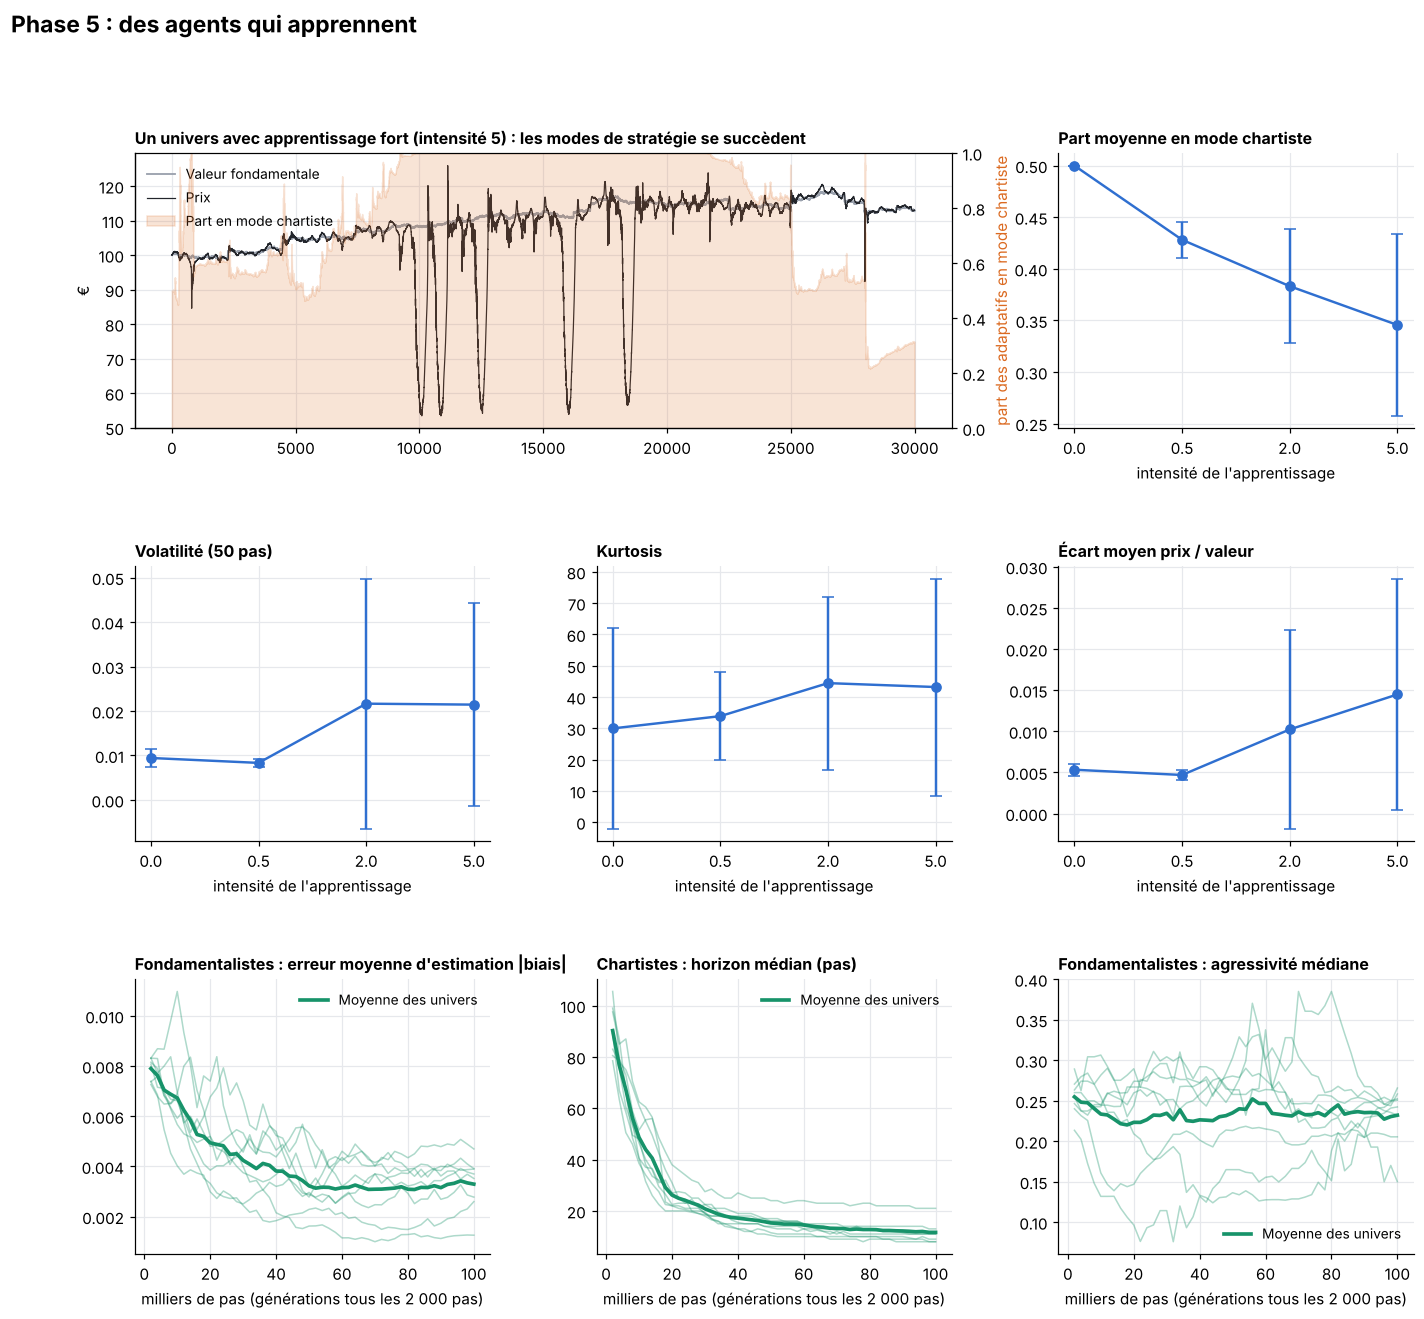
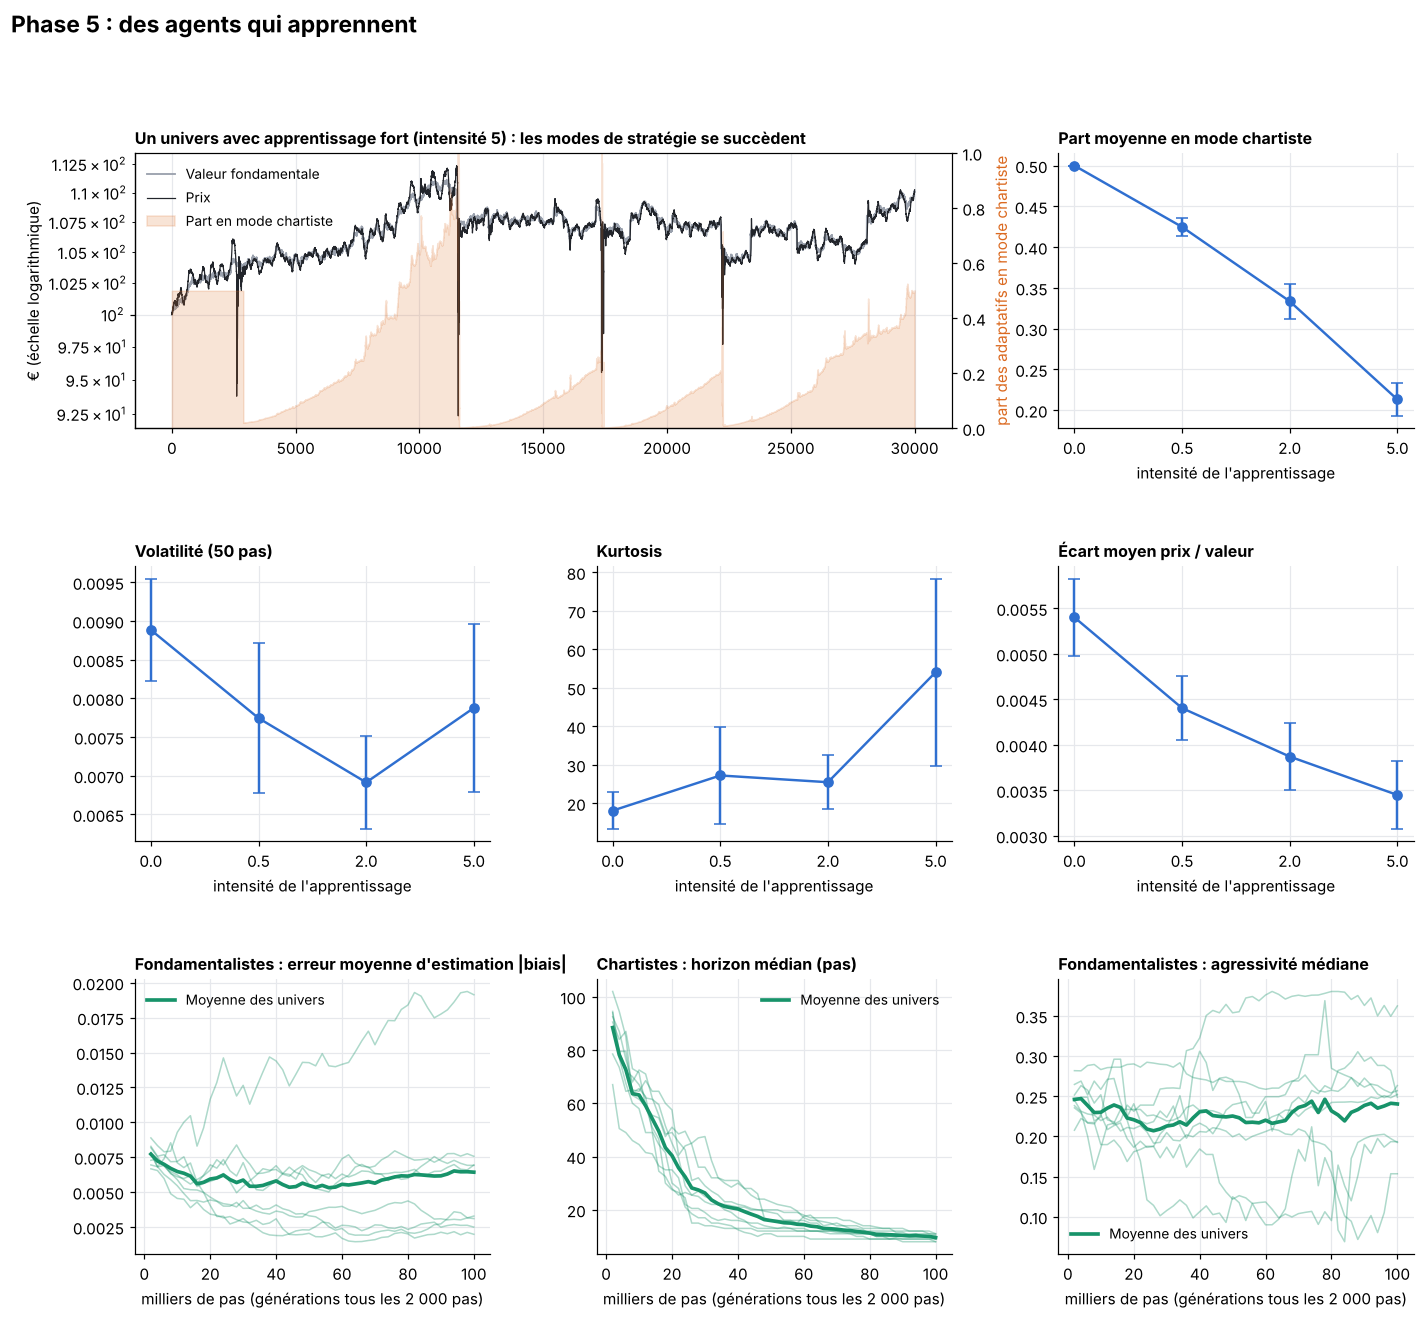
Phase 5 : agents qui apprennent, conclusions
Période d'observation avant apprentissage (supprime des bulles
artificielles au démarrage). Cycle de Minsky émergent : la part de
chartistes monte en période calme jusqu'au krach. L'évolution
raccourcit l'horizon des chartistes et rend le marché plus efficient.

Claude-Session: https://claude.ai/code/session_018u7No4f3AeSzErS5eYcLnu

diff --git a/apprendre.py b/apprendre.py
@@ -97,6 +97,8 @@ def _evolution(args):
 
 def ic(v):
     v = np.asarray([x for x in v if not math.isnan(x)])
+    if len(v) < 2:
+        return math.nan, math.nan, math.nan
     d = 1.96 * v.std(ddof=1) / math.sqrt(len(v))
     return v.mean(), v.mean() - d, v.mean() + d
 
@@ -137,7 +139,8 @@ def main() -> None:
     prix, fond, pc = next(r["serie"] for i, g, r in bh if i == 5.0)
     ax.plot(fond, color="#9aa1ad", lw=1.2, label="Valeur fondamentale")
     ax.plot(prix, color="#22252b", lw=0.8, label="Prix")
-    ax.set_ylabel("€")
+    ax.set_ylabel("€ (échelle logarithmique)")
+    ax.set_yscale("log")
     ax2 = ax.twinx()
     ax2.fill_between(np.arange(len(pc)), 0, pc, color="#db6a21", alpha=0.18, label="Part en mode chartiste")
     ax2.set_ylim(0, 1); ax2.set_ylabel("part des adaptatifs en mode chartiste", color="#db6a21")
@@ -187,7 +190,7 @@ def main() -> None:
          "|---|---|---|---|---|---|---|"]
     for I in INTENSITES:
         R = [r for i, g, r in bh if i == I]
-        f = lambda c, fmt: fmt.format(ic([r[c] for r in R])[0])
+        f = lambda c, fmt: "—" if math.isnan(ic([r[c] for r in R])[0]) else fmt.format(ic([r[c] for r in R])[0])
         L.append(f"| {I} | {f('part_chartiste', '{:.0%}')} | {f('volatilite', '{:.2%}')} | "
                  f"{f('kurtosis', '{:.1f}')} | {f('inefficience', '{:.2%}')} | {f('chute_max', '{:.1%}')} | "
                  f"{f('corr_part_vol', '{:+.2f}')} |")

diff --git a/marche/simulation.py b/marche/simulation.py
@@ -126,7 +126,8 @@ class Marche:
     def proba_fondamentaliste(self) -> float:
         """Probabilité logit (Brock et Hommes) de jouer la stratégie fondamentaliste."""
         ref = self._var[self._demi_vie_ref]
-        if not ref:
+        # Période d'observation : pas d'apprentissage tant que les scores n'ont pas d'historique.
+        if not ref or self.t < 1.0 / self._alpha_score:
             return 0.5
         # Écart de score en « t-statistique » : rapporté à la volatilité et à la longueur de la
         # mémoire. d = 2 signifie qu'une stratégie bat nettement l'autre ces derniers temps.

diff --git a/docs/conclusions-phase5.md b/docs/conclusions-phase5.md
@@ -1,0 +1,79 @@
+# Phase 5 : ce que disent les agents qui apprennent
+
+Chiffres bruts et graphiques : [`apprentissage.md`](apprentissage.md). Script : `python apprendre.py`.
+
+## Ce que les simulations longues ont révélé sur le modèle
+
+Faire tourner le marché sur 100 000 pas (contre 30 000 jusque-là) a mis au jour quatre
+défauts. Chacun faisait lentement dériver le prix, jusqu'à 30 % sous la valeur dans certains
+univers :
+
+1. **Prix gelé** quand un seul côté du carnet était rempli : le prix de référence restait au
+   dernier cours, même si des acheteurs proposaient plus haut.
+2. **Bruiteurs sans allocation de long terme** : servant de réservoir passif, leur stock
+   s'épuisait lentement. Ils rééquilibrent désormais vers leur allocation.
+3. **Faux appels de marge** : ils se déclenchaient même pour un fonds sans dette, ce qui en
+   faisait de simples stop-loss en cascade. Ils ne touchent plus que les positions financées
+   par emprunt.
+4. **Pas de faillite** : des fonds ruinés continuaient à trader à crédit. Un fonds qui perd
+   75 % de son capital ferme désormais, et un nouveau reprend son portefeuille.
+
+**Conséquence importante pour la phase 3** : l'effet de levier obtenu alors venait en partie
+du défaut n° 3. Avec des appels de marge corrects, il n'apparaît que si les chartistes sont
+réellement endettés, ce qui est le cas des hedge funds. C'est désormais le réglage par défaut,
+et l'effet de levier est reproduit dans 18 univers sur 20. Tous les rapports ont été
+régénérés sur le modèle corrigé.
+
+## Expérience A : agents adaptatifs (Brock et Hommes 1998)
+
+100 agents choisissent, avant chaque décision, entre la casquette fondamentaliste et la
+casquette chartiste, selon le score récent des deux stratégies. L'intensité règle la force de
+l'apprentissage : à 0, ils choisissent au hasard ; à 5, ils suivent presque toujours la
+stratégie gagnante.
+
+- **Les fondamentalistes gagnent en moyenne** : plus l'apprentissage est fort, plus la part
+  en mode chartiste baisse (50 % → 21 %), et plus le prix colle à la valeur (écart moyen
+  0,54 % → 0,34 %).
+- **Mais les queues s'épaississent** : la kurtosis triple (18 → 54). Le marché est plus calme
+  en temps normal, et ses crises sont plus violentes.
+- **Le mécanisme est un cycle**, visible dans le graphique de l'univers d'exemple :
+  1. en période calme, suivre la tendance rapporte, et la part de chartistes monte lentement ;
+  2. le marché, porté par des suiveurs de tendance, devient fragile ;
+  3. un krach éclate, à chaque fois au pic de la part de chartistes ;
+  4. les pertes discréditent le suivi de tendance, la part de chartistes s'effondre, et le cycle recommence.
+
+  La corrélation entre la part de chartistes et la volatilité qui suit croît avec l'intensité
+  de l'apprentissage (+0,14 → +0,37).
+- **Lecture** : c'est l'idée de Minsky, « la stabilité engendre l'instabilité », obtenue ici
+  sans l'avoir programmée.
+- **Correction en cours de route** : sans période d'observation, les agents apprenaient sur
+  quelques pas de bruit au démarrage et formaient des bulles géantes (prix multiplié par 60).
+  Ce n'était pas un résultat économique. L'apprentissage ne démarre désormais qu'une fois la
+  mémoire des scores remplie (2 000 pas).
+
+## Expérience B : évolution darwinienne des stratégies
+
+Tous les 2 000 pas, les 10 % de fondamentalistes et de chartistes les moins performants
+copient les paramètres d'un des 20 % les meilleurs, avec mutation. 8 univers de 100 000 pas.
+
+- **Les chartistes raccourcissent massivement leur horizon** : l'horizon médian passe de
+  88 pas à 10. Seul le momentum très court terme survit. Les tendances longues ne sont pas
+  exploitables dans ce marché, où les fondamentalistes ramènent le prix vers la valeur.
+- **Les fondamentalistes estiment un peu mieux la valeur** : l'erreur moyenne passe de
+  0,77 % à 0,64 %. C'est modeste, et un univers fait exception : la valeur y a monté
+  durablement, et ce sont les fondamentalistes optimistes qui ont été récompensés. La
+  sélection récompense ce qui a rapporté, pas ce qui est juste.
+- **L'agressivité des fondamentalistes ne converge pas** : elle reste autour de 0,24. Aucune
+  valeur ne domine, ce qui suggère plusieurs stratégies viables.
+- **Le marché devient plus efficient et plus calme** : l'écart prix/valeur passe de 1,11 % à
+  0,66 %, la volatilité de 1,16 % à 0,80 % et la pire chute de 29 % à 24 %. La kurtosis
+  monte toutefois légèrement (22 → 27) : comme dans l'expérience A, plus calme ne veut pas
+  dire plus sûr dans les extrêmes.
+
+## Limites
+
+- Les agents apprennent **quelle stratégie** suivre ou **quels paramètres** garder, mais pas
+  de nouvelles stratégies. Un apprentissage par renforcement libre serait l'étape suivante.
+- Le score d'une stratégie est celui d'un portefeuille virtuel, sans coûts de transaction.
+- Sans évolution, l'écart prix/valeur augmente encore légèrement avec le temps (0,6 % → 1,4 %
+  sur 100 000 pas) : il reste une dérive lente, modeste mais à surveiller.

diff --git a/docs/AVANCEMENT.md b/docs/AVANCEMENT.md
@@ -1,47 +1,31 @@
 # Où en est le projet
 
-*Dernière mise à jour : 17/11/2026, fin de session.*
+*Dernière mise à jour : 18/11/2026.*
 
 ## Fait
 
-- **Phase 1** : moteur Python. Carnet d'ordres, 4 types d'agents, faits stylisés, tableau de bord (`python lancer.py`).
+- **Phase 1** : moteur Python. Carnet d'ordres, agents, faits stylisés, tableau de bord (`python lancer.py`).
 - **Phase 2** : salle des marchés interactive dans le navigateur (`web/salle-des-marches.html`).
   Elle tourne encore avec le modèle de la phase 1 : elle sera mise à jour à la fin.
-- **Phase 3** : validation Monte-Carlo sur 20 univers (`python valider.py`, rapport dans
-  [`validation.md`](validation.md)). Trois mécanismes ont été ajoutés : horizons
-  hétérogènes, aversion aux pertes, appels de marge.
-- **Corrections apparues pendant la phase 4** :
-  - la limite des investisseurs value est désormais exprimée en euros et non plus en titres ;
-  - un acheteur stratégique (OPA) intervient sous 50 % de la valeur.
-
-  Sans ces deux corrections, le prix pouvait s'effondrer jusqu'à 0,01 € dans certains univers.
-
-## En cours : phase 4, expériences de régulation
-
-`python experimenter.py` lance 6 politiques × 20 univers appariés, plus un stress test de
-liquidation. Les résultats sont dans [`experiences.md`](experiences.md), et leur interprétation dans [`conclusions-phase4.md`](conclusions-phase4.md).
-
-**Premiers résultats, à analyser et à vérifier avant d'en tirer des conclusions :**
-- **Taxe 0,1 %** : la fourchette double et le volume baisse de 22 %, sans gain de stabilité significatif.
-- **Interdiction de la vente à découvert** : la chute pendant la liquidation est réduite de 65 %.
-  Hypothèse à vérifier : dans la référence, les chartistes vendent à découvert dans le
-  mouvement et amplifient la chute.
-- **Crédit restreint pour tous** : volatilité +55 %, pire chute +53 %. C'est la spirale de
-  liquidité : les investisseurs value n'ont plus les moyens d'absorber les ventes forcées.
-- **Levier des hedge funds limité** et **coupe-circuit 3 %** : aucun effet significatif sur 20 univers.
+- **Phase 3** : validation Monte-Carlo sur 20 univers (`python valider.py`, rapport
+  [`validation.md`](validation.md)). Mécanismes ajoutés : horizons hétérogènes, aversion aux
+  pertes, appels de marge.
+- **Phase 4** : expériences de régulation (`python experimenter.py`). Chiffres dans
+  [`experiences.md`](experiences.md), interprétation dans [`conclusions-phase4.md`](conclusions-phase4.md).
+- **Phase 5** : agents adaptatifs et évolution (`python apprendre.py`). Chiffres dans
+  [`apprentissage.md`](apprentissage.md), interprétation dans [`conclusions-phase5.md`](conclusions-phase5.md).
+  Les simulations longues ont révélé quatre défauts du modèle, tous corrigés (détails dans
+  les conclusions de la phase 5). Tous les rapports ont été régénérés sur le modèle corrigé.
 
 ## Reste à faire
 
-1. Phase 4 : vérifier les mécanismes derrière les résultats (surtout la vente à découvert),
-   puis rédiger l'interprétation.
-2. Phase 5 : agents adaptatifs (bascule fondamentaliste/chartiste selon la performance, à la
-   Brock et Hommes) et évolution darwinienne des paramètres.
-3. Phase 6 : plusieurs actifs, fonds endettés multi-actifs, contagion par les appels de marge.
-4. Mettre à jour la salle des marchés (JavaScript) avec le modèle final et vérifier
-   la parité avec le moteur Python.
+1. Phase 6 : plusieurs actifs, fonds endettés multi-actifs, contagion par les appels de marge.
+2. Mettre à jour la salle des marchés (JavaScript) avec le modèle final et vérifier la
+   parité avec le moteur Python.
 
 ## Points ouverts du modèle
 
-- Indice de queue de Hill ≈ 2,1, contre ≈ 3 dans la réalité : les queues sont encore un peu trop épaisses.
-- Mémoire de la volatilité β ≈ 0,6, contre 0,2 à 0,4 dans la réalité.
-- Rendements légèrement trop autocorrélés (|ACF| moyenne ≈ 0,13).
+- Indice de queue de Hill ≈ 1,9, contre ≈ 3 dans la réalité : les queues sont encore trop épaisses.
+- Mémoire de la volatilité β ≈ 0,8, contre 0,2 à 0,4 dans la réalité. Elle est bonne (≈ 0,4)
+  avec des chartistes non endettés, mais on perd alors l'effet de levier : il y a un arbitrage.
+- Légère dérive de l'écart prix/valeur sur très longue durée (≈ 0,6 % → 1,4 % sur 100 000 pas).

diff --git a/docs/apprentissage.md b/docs/apprentissage.md
@@ -8,10 +8,10 @@
 
 | Intensité | Part en mode chartiste | Volatilité | Kurtosis | Écart prix / valeur | Pire chute | corr(part chartiste, volatilité suivante) |
 |---|---|---|---|---|---|---|
-| 0.0 | 50% | 0.94% | 30.0 | 0.53% | 22.6% | +nan |
-| 0.5 | 43% | 0.83% | 33.9 | 0.47% | 17.0% | +0.05 |
-| 2.0 | 38% | 2.16% | 44.4 | 1.02% | 61.5% | +0.30 |
-| 5.0 | 35% | 2.14% | 43.2 | 1.45% | 63.0% | +0.42 |
+| 0.0 | 50% | 0.89% | 18.1 | 0.54% | 17.2% | — |
+| 0.5 | 42% | 0.77% | 27.2 | 0.44% | 18.1% | +0.14 |
+| 2.0 | 33% | 0.69% | 25.5 | 0.39% | 18.0% | +0.30 |
+| 5.0 | 21% | 0.79% | 54.1 | 0.34% | 19.5% | +0.37 |
 
 ## Expérience B : évolution des stratégies (8 univers de 100 000 pas, avec et sans évolution)
 
@@ -19,31 +19,31 @@ Tous les 2 000 pas, les 10 % de fondamentalistes et de chartistes les moins perf
 
 | Indicateur | Début | Fin |
 |---|---|---|
-| Fondamentalistes : erreur moyenne d'estimation |biais| | 0.79% | 0.33% |
-| Fondamentalistes : agressivité médiane | 0.25 | 0.23 |
-| Chartistes : horizon médian (pas) | 90 | 12 |
-| Chartistes : échelle de tendance médiane | 0.030 | 0.037 |
+| Fondamentalistes : erreur moyenne d'estimation |biais| | 0.77% | 0.64% |
+| Fondamentalistes : agressivité médiane | 0.25 | 0.24 |
+| Chartistes : horizon médian (pas) | 88 | 10 |
+| Chartistes : échelle de tendance médiane | 0.030 | 0.032 |
 
 Efficience du marché par tranche de 10 000 pas (écart moyen prix / valeur) :
 
 | Tranche | Sans évolution | Avec évolution |
 |---|---|---|
-| 0–10 k | 0.51% | 0.47% |
-| 10–20 k | 0.92% | 0.45% |
-| 20–30 k | 0.58% | 0.42% |
-| 30–40 k | 1.38% | 0.42% |
-| 40–50 k | 5.08% | 0.51% |
-| 50–60 k | 7.84% | 0.38% |
-| 60–70 k | 8.17% | 0.39% |
-| 70–80 k | 8.61% | 0.33% |
-| 80–90 k | 9.04% | 0.44% |
-| 90–100 k | 7.94% | 0.40% |
+| 0–10 k | 0.60% | 0.64% |
+| 10–20 k | 0.80% | 0.56% |
+| 20–30 k | 0.85% | 0.73% |
+| 30–40 k | 0.91% | 0.63% |
+| 40–50 k | 0.94% | 0.65% |
+| 50–60 k | 1.05% | 0.67% |
+| 60–70 k | 1.24% | 0.63% |
+| 70–80 k | 1.60% | 0.70% |
+| 80–90 k | 1.72% | 0.68% |
+| 90–100 k | 1.38% | 0.69% |
 
 | Sur toute la durée | Sans évolution | Avec évolution |
 |---|---|---|
-| Volatilité | 1.73% [1.02% ; 2.43%] | 0.81% [0.75% ; 0.87%] |
-| Kurtosis | 52.1 [-0.8 ; 105.0] | 36.7 [30.2 ; 43.2] |
-| Écart prix / valeur | 5.05% [-0.16% ; 10.27%] | 0.42% [0.36% ; 0.48%] |
-| Pire chute | 61.3% [47.8% ; 74.8%] | 27.6% [24.0% ; 31.3%] |
+| Volatilité | 1.16% [1.04% ; 1.28%] | 0.80% [0.71% ; 0.88%] |
+| Kurtosis | 21.6 [17.5 ; 25.8] | 27.3 [22.2 ; 32.5] |
+| Écart prix / valeur | 1.11% [0.86% ; 1.37%] | 0.66% [0.49% ; 0.83%] |
+| Pire chute | 29.0% [22.4% ; 35.7%] | 24.1% [20.1% ; 28.1%] |
 
 ![Graphiques de la phase 5](apprentissage.png)

diff --git a/README.md b/README.md
@@ -75,6 +75,26 @@ Ce script fait tourner 20 univers indépendants et confronte le simulateur à 11
 stylisés de la littérature, avec intervalles de confiance. Le dernier rapport est dans
 [`docs/validation.md`](docs/validation.md).
 
+## Phase 4 : expériences de régulation
+
+```bash
+python experimenter.py
+```
+
+Ce script compare cinq politiques (taxe, coupe-circuit, interdiction de la vente à découvert,
+deux formes de limite de levier) à la référence, sur les mêmes 20 univers, avec un stress
+test de liquidation forcée. Voir [`docs/conclusions-phase4.md`](docs/conclusions-phase4.md).
+
+## Phase 5 : des agents qui apprennent
+
+```bash
+python apprendre.py
+```
+
+Ce script étudie des agents adaptatifs qui choisissent leur stratégie selon ce qui rapporte
+(Brock et Hommes), et une évolution darwinienne des paramètres des stratégies. Voir
+[`docs/conclusions-phase5.md`](docs/conclusions-phase5.md).
+
 ## Structure du code
 
 ```
@@ -103,7 +123,4 @@ reproduits, avec des intervalles de confiance qui excluent 0.
 
 ## Limites connues
 
-- **Queues trop épaisses** : indice de Hill d'environ 1,8, contre environ 3 sur les actions réelles
-- **Mémoire de la volatilité encore un peu courte** : β ≈ 0,75, contre 0,2 à 0,4 sur les marchés réels
-- **Appels de marge sur les fondamentalistes** : s'ils y sont aussi soumis, le marché devient
-  instable (limites de l'arbitrage, Shleifer et Vishny 1997)
+Voir [`docs/AVANCEMENT.md`](docs/AVANCEMENT.md) (points ouverts du modèle).
